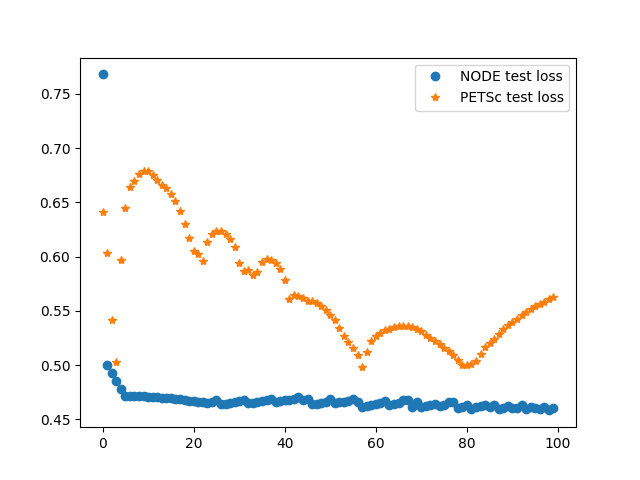
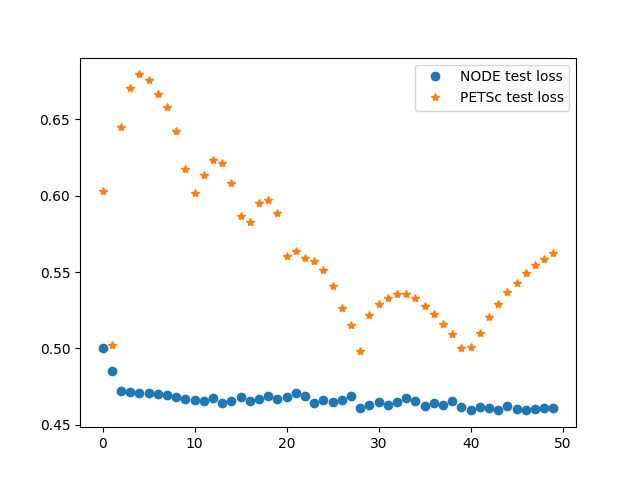
temp changes

diff --git a/examples/ode_demo.py b/examples/ode_demo.py
@@ -8,7 +8,7 @@ import torch.nn as nn
 import torch.optim as optim
 
 parser = argparse.ArgumentParser('ODE demo')
-parser.add_argument('--method', type=str, choices=['dopri5', 'adams'], default='dopri5')
+parser.add_argument('--method', type=str, choices=['dopri5', 'adams', 'rk4'], default='dopri5')
 parser.add_argument('--data_size', type=int, default=1001)
 parser.add_argument('--batch_time', type=int, default=10)
 parser.add_argument('--batch_size', type=int, default=20)
@@ -19,6 +19,16 @@ parser.add_argument('--gpu', type=int, default=0)
 parser.add_argument('--adjoint', action='store_true')
 parser.add_argument('--step_size', type=float, default=0.025)
 args = parser.parse_args()
+
+
+# Set these random seeds, so everything can be reproduced. 
+np.random.seed(0)
+torch.manual_seed(0)
+torch.backends.cudnn.deterministic = True
+torch.backends.cudnn.benchmark = False
+
+import sys
+sys.path.append('/home/zhaow/torchdiffeq')
 
 if args.adjoint:
     from torchdiffeq import odeint_adjoint as odeint
@@ -46,7 +56,7 @@ with torch.no_grad():
     # sys.exit()
 
 def get_batch():
-    s = torch.from_numpy(np.random.choice(np.arange(args.data_size - args.batch_time, dtype=np.int64), args.batch_size, replace=False))
+    s = torch.from_numpy(np.random.choice(np.arange(args.data_size - args.batch_time, dtype=np.int64), args.batch_size, replace=True))
     batch_y0 = true_y[s]  # (M, D)
     batch_t = t[:args.batch_time]  # (T)
     batch_y = torch.stack([true_y[s + i] for i in range(args.batch_time)], dim=0)  # (T, M, D)

diff --git a/examples/ode_demo_petsc.py b/examples/ode_demo_petsc.py
@@ -11,7 +11,7 @@ import sys
 
 
 parser = argparse.ArgumentParser('ODE demo')
-parser.add_argument('--method', type=str, choices=['dopri5', 'adams','dopri5_fixed','rk4','euler'], default='dopri5')
+parser.add_argument('--method', type=str, choices=['dopri5', 'adams','dopri5_fixed','rk4','euler'], default='rk4')
 parser.add_argument('--data_size', type=int, default=1001)
 parser.add_argument('--batch_time', type=int, default=10)
 parser.add_argument('--batch_size', type=int, default=20)
@@ -29,6 +29,13 @@ data_size = args.data_size
 batch_time = args.batch_time
 batch_size = args.batch_size
 step_size = args.step_size
+
+
+# Set these random seeds, so everything can be reproduced. 
+np.random.seed(0)
+torch.manual_seed(0)
+torch.backends.cudnn.deterministic = True
+torch.backends.cudnn.benchmark = False
 
 import petsc4py
 sys.argv = [sys.argv[0]] + unknown

diff --git a/examples/ode_demo_compare.py b/examples/ode_demo_compare.py
@@ -38,7 +38,7 @@ from petsc4py import PETSc
 np.random.seed(0)
 torch.manual_seed(0)
 torch.backends.cudnn.deterministic = True
-
+torch.backends.cudnn.benchmark = False
 
 import torchdiffeq
 
